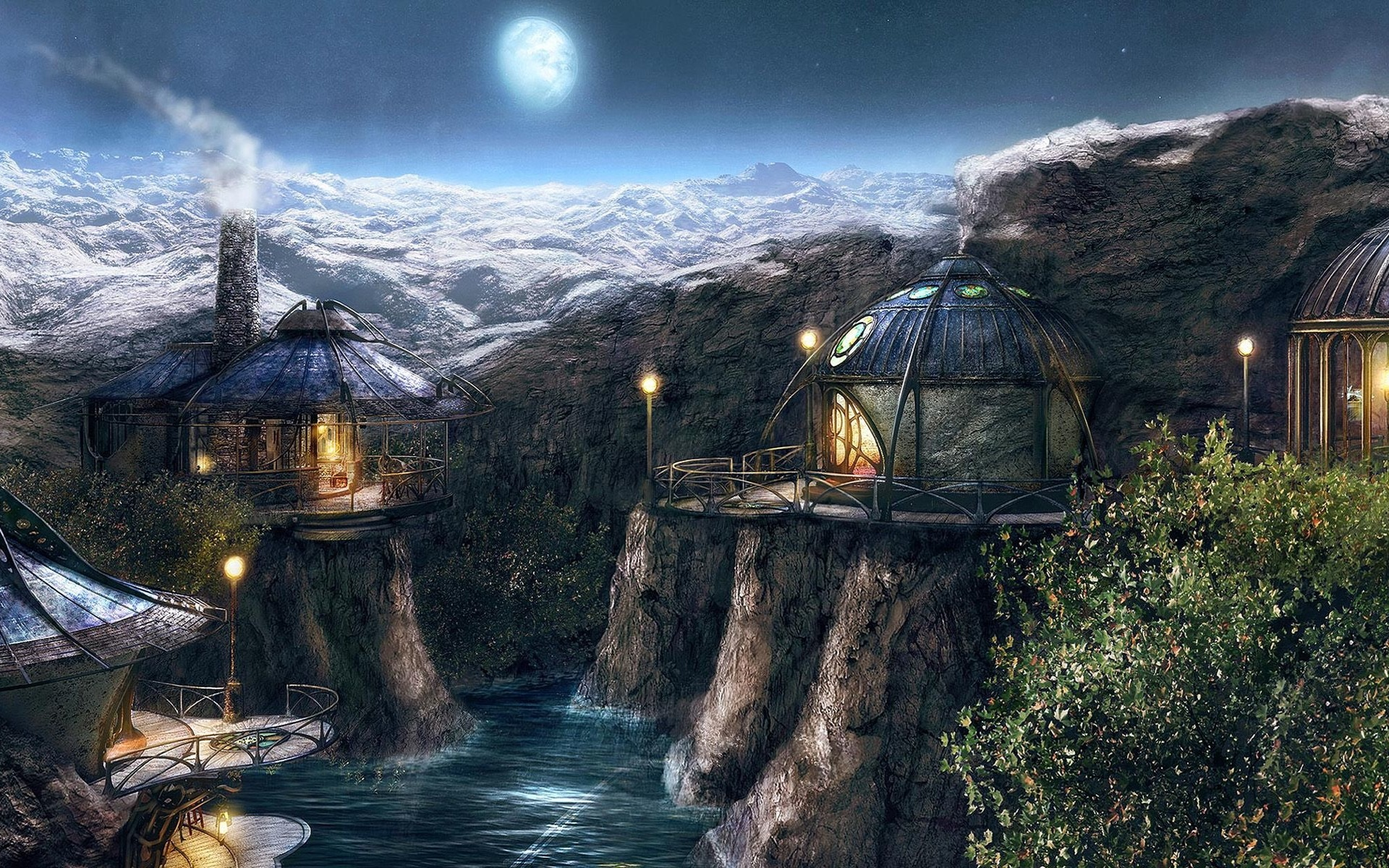
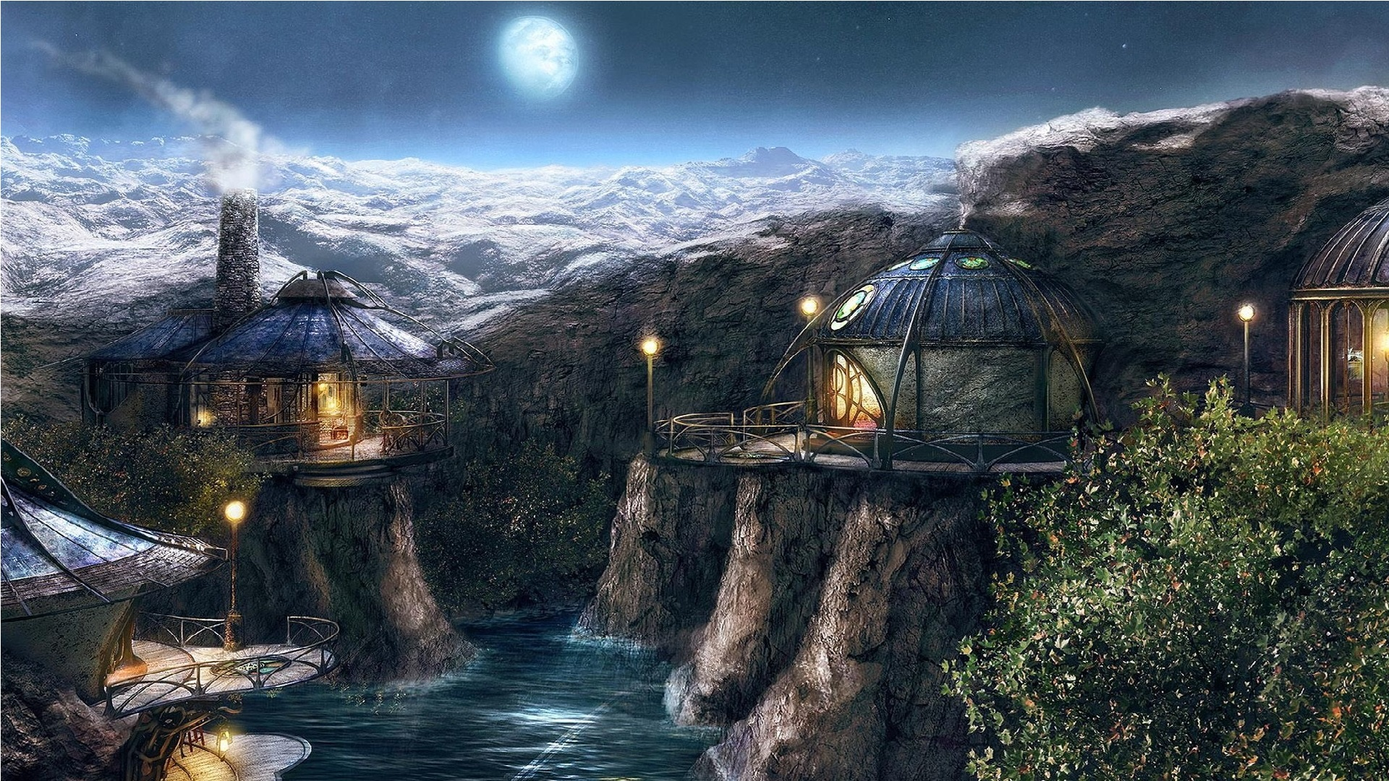
Added Base css. Edited a picture size.

Changed region(s): [[0.0, 0.0917, 1.0, 1.0]]

diff --git a/MicroRPG/wwwroot/css/Base.css b/MicroRPG/wwwroot/css/Base.css
@@ -1,0 +1,23 @@
+body {
+}
+
+.ViewHeader {
+    text-align: center;
+    font-size: 50px;
+}
+
+#environmentTable img {
+    width: 100%;
+}
+
+#environmentTable a {
+}
+
+#environmentTable {
+    width: 95%;
+    margin: 2%;
+}
+    
+.buttons{
+    margin: 10px;
+}
